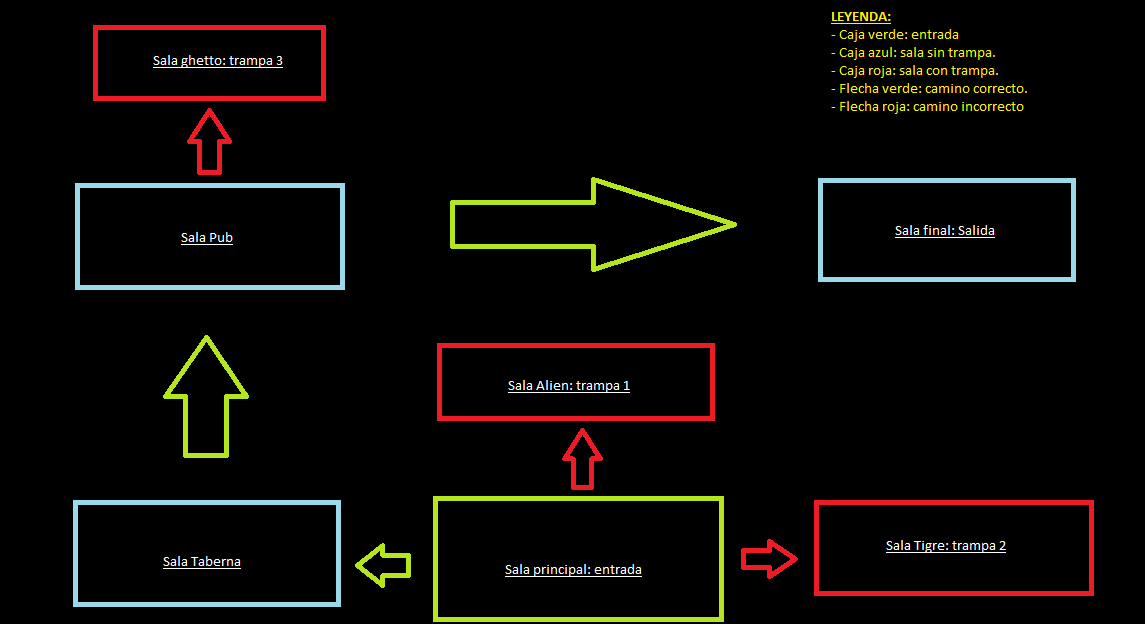
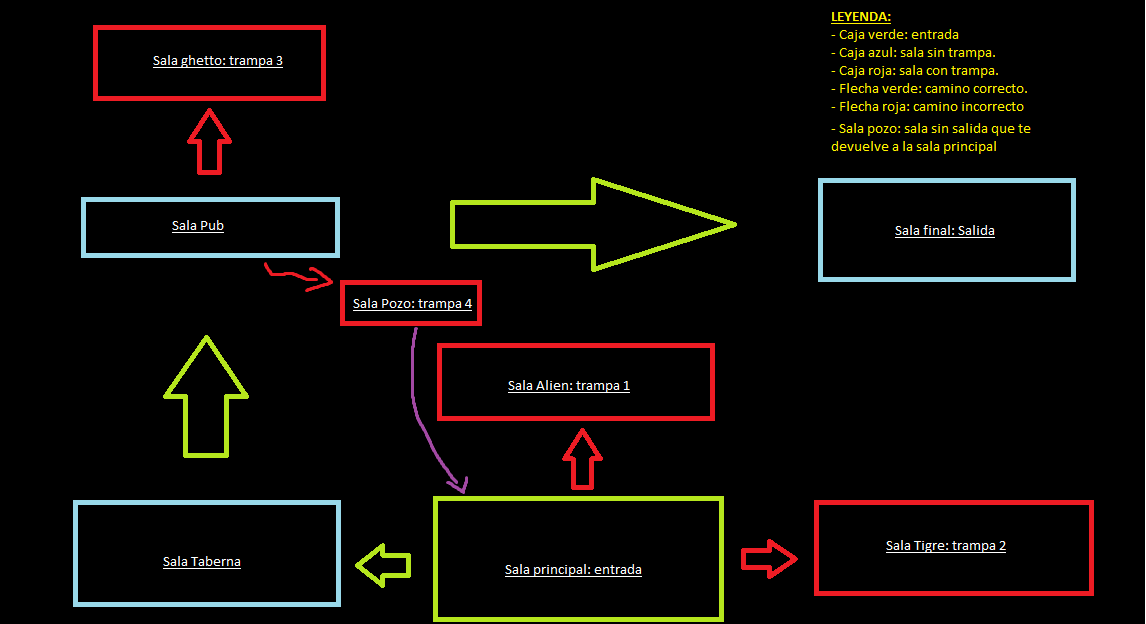
04. Añadiendo la salaPozo al mapa digital. Añadida la salaPozo a la clase Room y el punto southEast en la clase Game y Room

diff --git a/Room.java b/Room.java
@@ -19,6 +19,7 @@ public class Room
     public Room southExit;
     public Room eastExit;
     public Room westExit;
+    public Room southEastExit;
 
     /**
      * Create a room described "description". Initially, it has
@@ -38,8 +39,9 @@ public class Room
      * @param east The east east.
      * @param south The south exit.
      * @param west The west exit.
+     * @param southEast The southEast exit.
      */
-    public void setExits(Room north, Room east, Room south, Room west) 
+    public void setExits(Room north, Room east, Room south, Room west, Room southEast) 
     {
         if(north != null)
             northExit = north;
@@ -49,6 +51,8 @@ public class Room
             southExit = south;
         if(west != null)
             westExit = west;
+        if(southEast != null)
+            southEastExit = southEast;
     }
 
     /**
